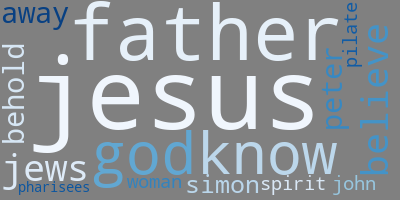
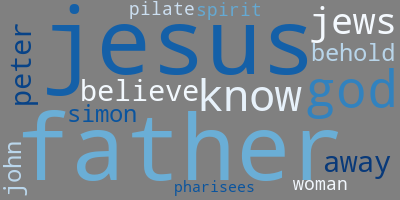
changes to hw

diff --git a/NLP_exercise.py b/NLP_exercise.py
@@ -15,27 +15,20 @@ blob = TextBlob(Path('book of John text.txt').read_text())
 
 #nltk.download("stopwords")
 stops = stopwords.words("english")
-more_stops = ['thy', 'ye', 'verily', 'thee', 'hath', 'say', 'thou', 'art',
- 'shall', 'unto', 'said', 'therefore', 'saith', 'man',
- 'one', 'things', 'come', 'world','answered','came', 'may','also','went',
- 'sent', 'cometh', 'go', 'life', 'lord','even','witness','yet', 'given','see',
- 'word', 'heard', 'spake', 'made', 'hast','disciples', 'son',
- 'many', 'truth', 'believed', 'saying', 'day','knew',
- 'light', 'name', 'us', 'hour','give','water','works','feast', 'take',
- 'love', 'might','seen','saw','called','forth', 'would','another','bear','true']
-
+more_stops = ['thy', 'ye', 'verily', 'thee', 'hath', 'say', 'thou', 'art', 'shall']
 stops += more_stops
 
-print(stops)
+noun_phrases = blob.noun_phrases
 
 items = blob.word_counts.items()
-clean_items = [word for word in items if word[0] not in stops]
-
+clean_items = [word for word in items if word[0] not in stops if word[0] in noun_phrases]
 
 from operator import itemgetter
 sorted_list = sorted(clean_items, key=itemgetter(1), reverse=True)
+
 top15 = sorted_list[:15]
 print(top15)
+
 
 for i in top15:
     top15_wordcloud = [x[0] for x in top15]
@@ -48,5 +41,4 @@ print(string_for_wordcloud)
 wordcloud = WordCloud(colormap='Blues',background_color='gray')
 wordcloud = wordcloud.generate(string_for_wordcloud)
 wordcloud = wordcloud.to_file("BookOfJohnWordCloud.png")
-print("Done")
 
